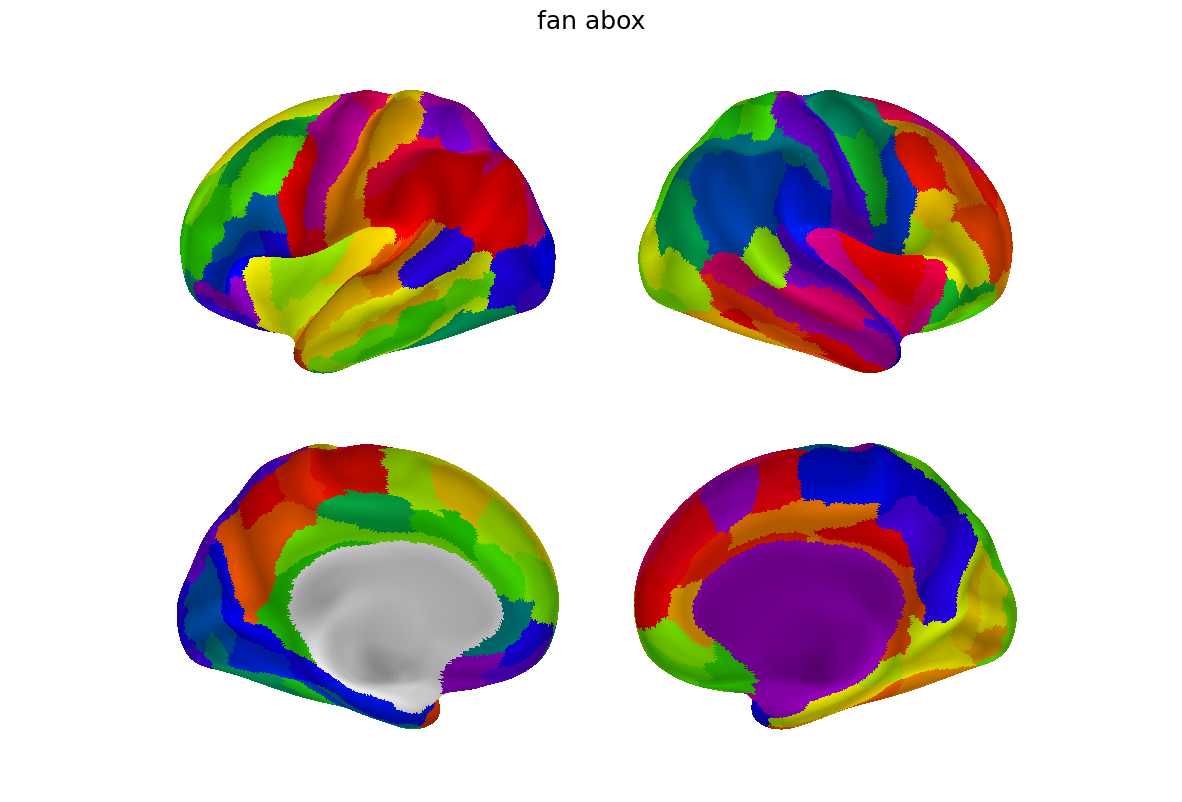
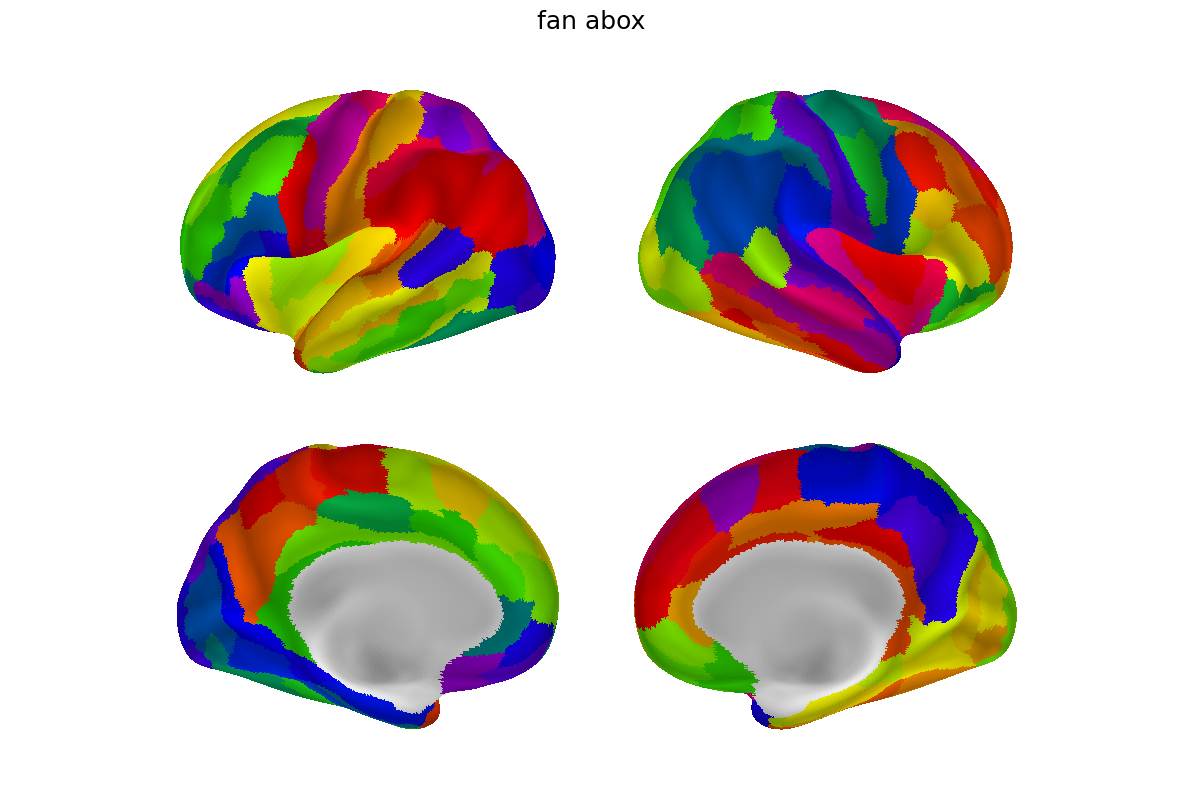
make sure up to date, small fixes

Changed region(s): [[0.5787, 0.6546, 0.7614, 0.904]]

diff --git a/setup/process_parcs.py b/setup/process_parcs.py
@@ -1,3 +1,4 @@
+from re import M
 import numpy as np
 import nibabel as nib
 import os
@@ -8,30 +9,34 @@ from helpers import (conv_to_array_32k_space, conv_matlab,
                      prob_vol_labels_to_surf, load_medial_wall,
                      fsaverage_label_to_fs_lr)
 
-def proc_balsa(save_dr):
+def proc_balsa(save_dr, mw_mask):
     
     gordon = conv_to_array_32k_space('../raw/gordon_balsa/Gordon333_FreesurferSubcortical.32k_fs_LR.dlabel.nii')
+    gordon[mw_mask] = 0
     save_loc = os.path.join(save_dr, 'gordon.npy')
     np.save(save_loc, gordon)
     
     brodmann = conv_to_array_32k_space('../raw/gordon_balsa/Human.Brodmann09.32k_fs_LR.dlabel.nii')
+    brodmann[mw_mask] = 0
     save_loc = os.path.join(save_dr, 'brodmann.npy')
     np.save(save_loc, brodmann)
     
     vdg11b = conv_to_array_32k_space('../raw/gordon_balsa/Human.Composite_VDG11.32k_fs_LR.dlabel.nii')
+    vdg11b[mw_mask] = 0
     save_loc = os.path.join(save_dr, 'vdg11b.npy')
     np.save(save_loc, vdg11b)
 
-def proc_hcp(save_dr):
+def proc_hcp(save_dr, mw_mask):
     
     lh = conv_to_array_32k_space('../raw/hcp_mmp_balsa/Q1-Q6_RelatedParcellation210.L.CorticalAreas_dil_Colors.32k_fs_LR.dlabel.nii')
     rh = conv_to_array_32k_space('../raw/hcp_mmp_balsa/Q1-Q6_RelatedParcellation210.R.CorticalAreas_dil_Colors.32k_fs_LR.dlabel.nii')
     hcp_mmp = merge(lh, rh)
+    hcp_mmp[mw_mask] = 0
     
     save_loc = os.path.join(save_dr, 'hcp_mmp.npy')
     np.save(save_loc, hcp_mmp)
 
-def proc_abox(save_dr):
+def proc_abox(save_dr, mw_mask):
 
     lh_map = nib.load('../raw/hcp_mmp_balsa/Q1-Q6_RelatedParcellation210.L.CorticalAreas_dil_Colors.32k_fs_LR.dlabel.nii').header.get_index_map(1)[0]
     rh_map = nib.load('../raw/hcp_mmp_balsa/Q1-Q6_RelatedParcellation210.R.CorticalAreas_dil_Colors.32k_fs_LR.dlabel.nii').header.get_index_map(1)[0]
@@ -42,10 +47,11 @@ def proc_abox(save_dr):
         base = os.path.join(a_dr, parc, parc)
         lh_loc, rh_loc = base + '_L.mat', base + '_R.mat'
         data = conv_matlab(lh_loc, rh_loc, lh_map, rh_map)
+        data[mw_mask] = 0
         save_loc = os.path.join(save_dr, parc.lower() + '_abox')
         np.save(save_loc, data)
 
-def proc_dlab(save_dr):
+def proc_dlab(save_dr, mw_mask):
     
     dr = '../raw/diedrichsen_lab/'
     parcs = os.listdir(dr)
@@ -56,44 +62,52 @@ def proc_dlab(save_dr):
         lh = conv_to_array_32k_space(loc)
         rh = conv_to_array_32k_space(loc.replace('.L.', '.R.'))
         data = merge(lh, rh)
+        data[mw_mask] = 0
         save_loc = os.path.join(save_dr, p.split('.')[0].lower() + '_dlab.npy')
         np.save(save_loc, data)
 
-def proc_schaefer(save_dr):
+def proc_schaefer(save_dr, mw_mask):
     
     for size in range(100, 1001, 100):
         loc = '../raw/schaefer_cifti/Schaefer2018_' + str(size) + 'Parcels_7Networks_order.dscalar.nii'
         data = conv_to_array_32k_space(loc)
+        data[mw_mask] = 0
         save_loc = os.path.join(save_dr, 'schaefer_' + str(size))
         np.save(save_loc, data)
 
-def proc_yeo(save_dr):
+def proc_yeo(save_dr, mw_mask):
 
     y1 = nib.load('../raw/yeo/Yeo2011_7Networks_N1000.dscalar.nii').get_fdata()
     y1 = y1.squeeze()
+    y1[mw_mask] = 0
+
     save_loc = os.path.join(save_dr, 'yeo_7networks.npy')
     np.save(save_loc, y1)
 
     y2 = nib.load('../raw/yeo/Yeo2011_17Networks_N1000.dscalar.nii').get_fdata()
     y2 = y2.squeeze()
+    y2[mw_mask] = 0
+
     save_loc = os.path.join(save_dr, 'yeo_17networks.npy')
     np.save(save_loc, y2)
 
-def proc_maps_and_parcs(save_dr):
+def proc_maps_and_parcs(save_dr, mw_mask):
     
-    for stub in ['economo', 'mesulam', 'oasis.chubs', 'sjh']:
+    for stub in ['economo', 'oasis.chubs', 'sjh']:
 
         surf = fsaverage_label_to_fs_lr(lh_loc='../raw/maps_and_parcs/lh.' + stub + '.annot',
                                         rh_loc='../raw/maps_and_parcs/rh.' + stub + '.annot')
+        surf[mw_mask] = 0
         save_loc = os.path.join(save_dr, stub + '.npy')
         np.save(save_loc, surf)
 
-def proc_multi_atlas(save_dr):
+def proc_multi_atlas(save_dr, mw_mask):
 
     for stub in ['aicha', 'nspn500']:
 
         surf = fsaverage_label_to_fs_lr(lh_loc='../raw/multi_atlas/lh.' + stub + '.annot',
                                         rh_loc='../raw/multi_atlas/rh.' + stub + '.annot')
+        surf[mw_mask] = 0
         save_loc = os.path.join(save_dr, stub + '.npy')
         np.save(save_loc, surf)
 
@@ -234,27 +248,25 @@ def proc_neuro_parc(save_dr, mw_mask):
 
 def main():
 
+    mw_mask =\
+        load_medial_wall(annot_loc='../raw/fs_LR_32k_label/medialwall.annot')
+
     save_dr = '../parcels/'
     os.makedirs(save_dr, exist_ok=True)
 
     # Proc already surf, already FS_lr_32k space
-    proc_balsa(save_dr)
-    proc_hcp(save_dr)
-    proc_abox(save_dr)
-    proc_dlab(save_dr)
-    proc_schaefer(save_dr)
-    proc_yeo(save_dr)
+    proc_balsa(save_dr, mw_mask)
+    proc_hcp(save_dr, mw_mask)
+    proc_abox(save_dr, mw_mask)
+    proc_dlab(save_dr, mw_mask)
+    proc_schaefer(save_dr, mw_mask)
+    proc_yeo(save_dr, mw_mask)
 
     # Resample from fs-average to FS_lr_32k
-    proc_maps_and_parcs(save_dr)
-    proc_multi_atlas(save_dr)
+    proc_maps_and_parcs(save_dr, mw_mask)
+    proc_multi_atlas(save_dr, mw_mask)
 
     # Proc sampling dif MNI volumes to surf
-    # Load mw_mask - as sampling is noisy, apply this mask
-    # to all re-sampled from volume
-    mw_mask =\
-        load_medial_wall(annot_loc='../raw/fs_LR_32k_label/medialwall.annot')
-
     proc_harvard_oxford(save_dr, mw_mask)
     proc_smith(save_dr, mw_mask)
     proc_craddock(save_dr, mw_mask)

diff --git a/docs/parcels_viz.md b/docs/parcels_viz.md
@@ -50,10 +50,9 @@ description: All static parcellations
 ![parc](https://raw.githubusercontent.com/sahahn/parc_scaling/master/extra/Figures/parcels/desikan_abox.png)
 ![parc](https://raw.githubusercontent.com/sahahn/parc_scaling/master/extra/Figures/parcels/desikan_dlab.png)
 
-
 # Destrieux
 
-![parc](https://raw.githubusercontent.com/sahahn/parc_scaling/master/extra/Figures/parcels/dextrieux_abox.png)
+![parc](https://raw.githubusercontent.com/sahahn/parc_scaling/master/extra/Figures/parcels/destrieux_abox.png)
 ![parc](https://raw.githubusercontent.com/sahahn/parc_scaling/master/extra/Figures/parcels/dextrieux_dlab.png)
 
 
